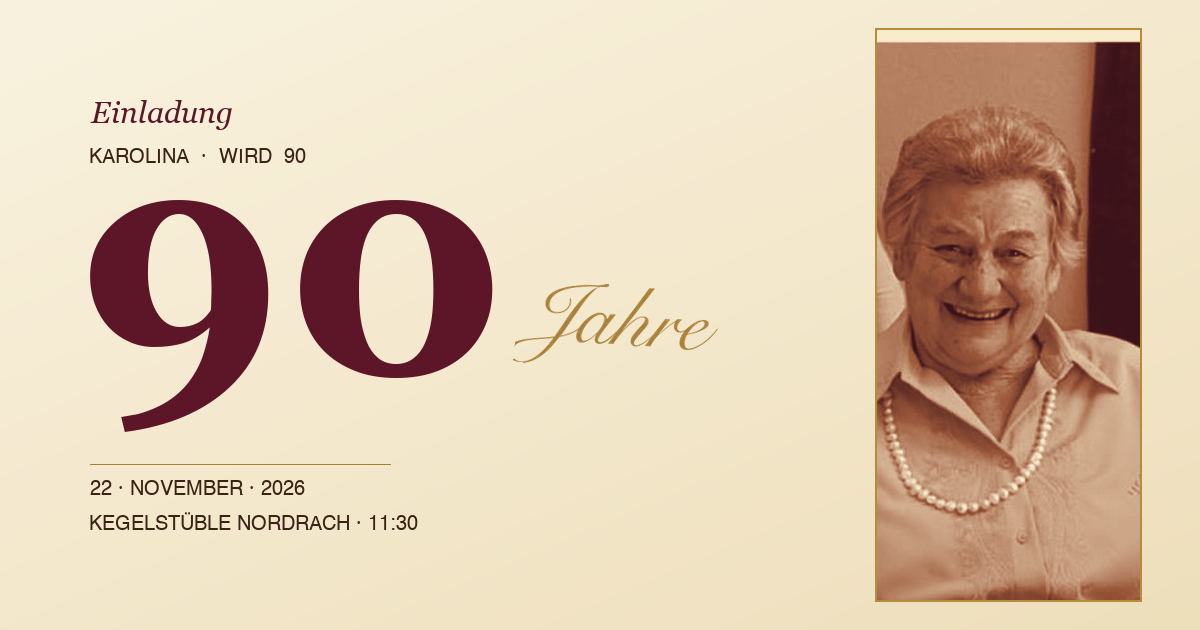
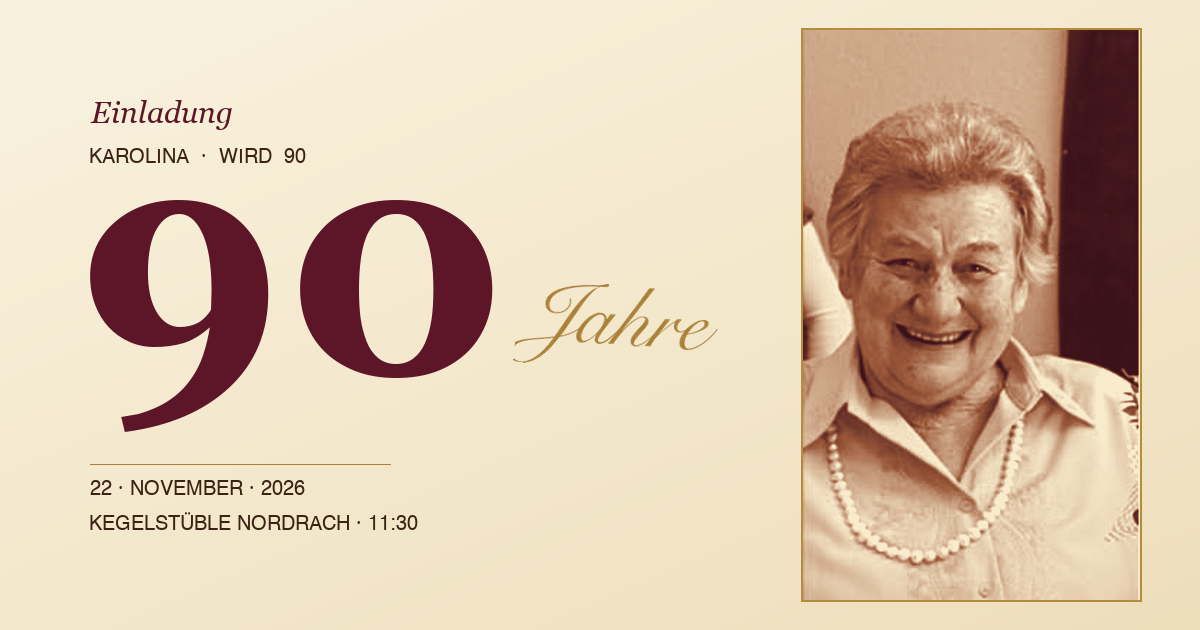
fix: medaillon weiter runter, preview-portrait auf kopf/oberkoerper zentriert

Changed region(s): [[0.6475, 0.0302, 0.9558, 0.9651]]

diff --git a/index.html b/index.html
@@ -103,7 +103,7 @@
     width:clamp(78px, 24vw, 100px);height:clamp(78px, 24vw, 100px);
     aspect-ratio:1/1;flex-shrink:0;flex-grow:0;
     border-radius:50%;
-    margin:2px auto 10px;
+    margin:14px auto 12px;
     background:url("assets/portrait_aktuell.jpg") 65% 12% / cover no-repeat;
     box-shadow:
       0 0 0 1px rgba(168,128,58,.55),
@@ -355,19 +355,19 @@
     .cover-jahre{font-size:44px;right:-60px;bottom:12px}
     .innen{padding:20px 24px 24px}
     .fliess{gap:5px}
-    .medaillon{margin:0 auto 8px}
+    .medaillon{margin:10px auto 8px}
     .h-einladung{margin-bottom:4px}
   }
   @media (max-height:620px){
     .buehne{aspect-ratio: 3/5.2;max-height:calc(100dvh - 80px)}
     .fliess{font-size:13px;line-height:1.35;gap:4px}
-    .medaillon{width:66px;height:66px;margin:0 auto 4px}
+    .medaillon{width:66px;height:66px;margin:8px auto 4px}
     .h-einladung{font-size:16px;letter-spacing:5px;margin-bottom:2px}
     .zierlinie{margin:2px auto 8px}
     .signatur{font-size:22px;margin-top:0}
     .btn{padding:7px 10px;font-size:12px;letter-spacing:1.2px}
     .aktionen{padding-top:8px;gap:4px}
-    .innen{padding:16px 22px 20px}
+    .innen{padding:14px 22px 18px}
     .datum{font-size:14px}
   }
   @media (max-width:340px){
